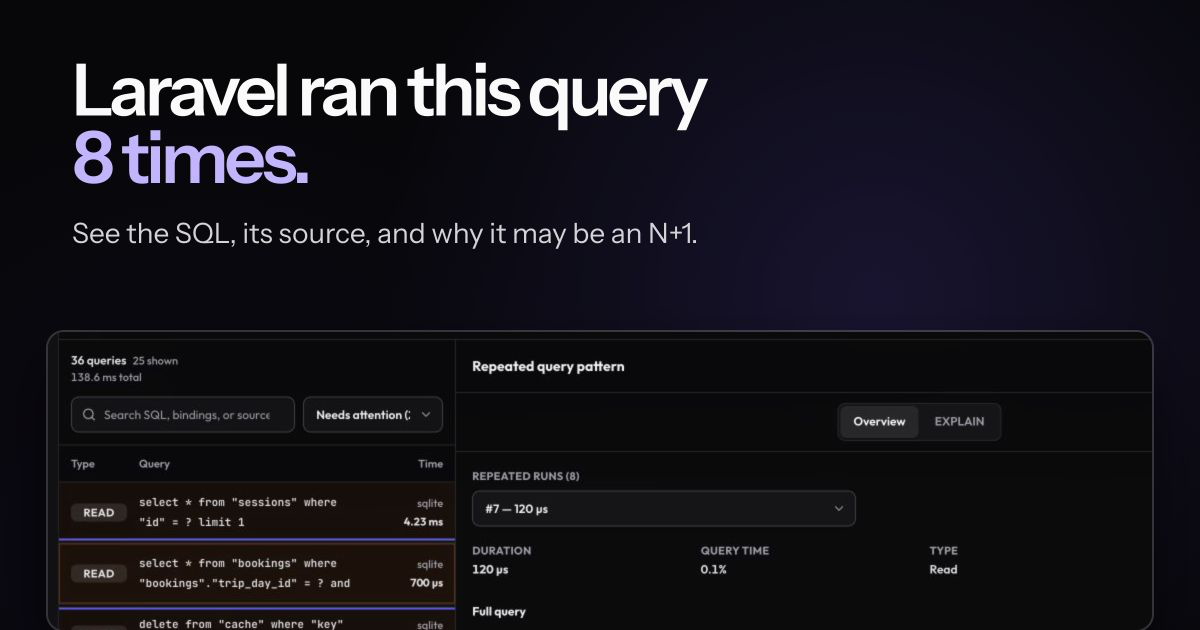
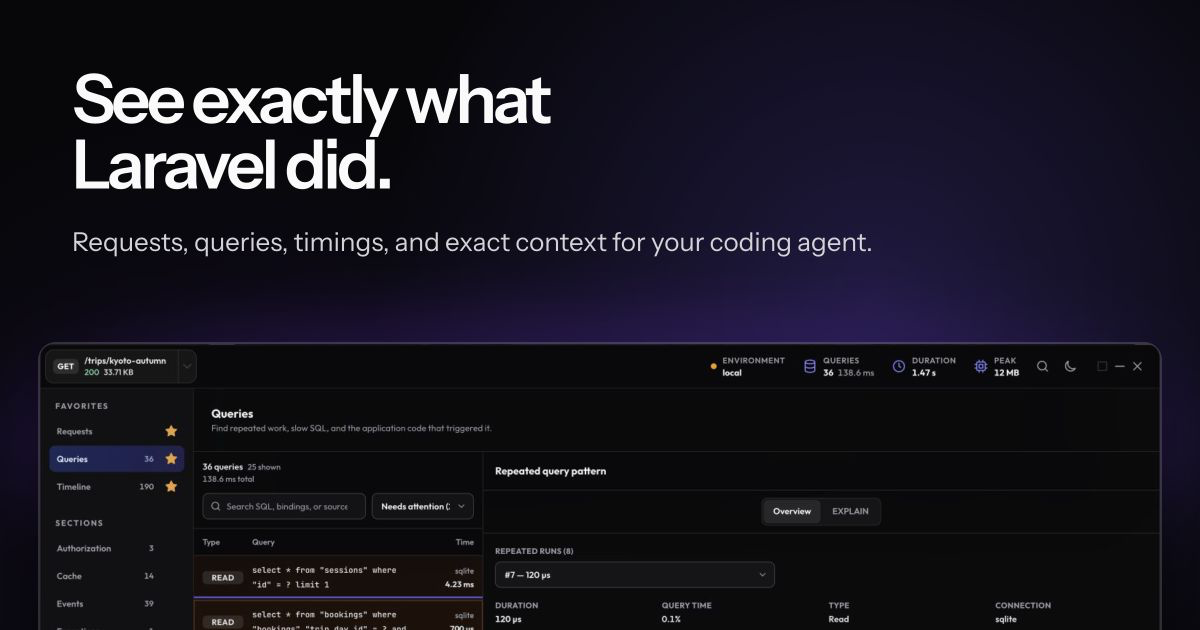
Restore the broader social preview
- Return to the approved headline, spacing, and full product screenshot.
- Replace exceptions with timings in the supporting copy.
- Strengthen only the existing violet background and screenshot halo.
- Remove the extra image-format assertion from the visual-only pass.

diff --git a/resources/views/social/og-image.blade.php b/resources/views/social/og-image.blade.php
@@ -23,23 +23,23 @@
     </head>
     <body class="bg-[#07070a] font-sans antialiased">
         <main
-            class="relative isolate h-[630px] w-[1200px] overflow-hidden bg-[#07070a] text-white [background:radial-gradient(circle_at_73%_47%,rgb(119_87_255_/_16%),transparent_31.25rem),radial-gradient(circle_at_18%_87%,rgb(76_29_149_/_8%),transparent_28rem),#07070a]"
+            class="relative isolate h-[630px] w-[1200px] overflow-hidden bg-[#07070a] text-white [background:radial-gradient(circle_at_73%_47%,rgb(119_87_255_/_22%),transparent_31.25rem),radial-gradient(circle_at_18%_87%,rgb(76_29_149_/_12%),transparent_28rem),#07070a]"
             data-social-preview-canvas
             data-social-preview-width="1200"
             data-social-preview-height="630"
         >
-            <h1 class="absolute top-14 left-[72px] w-[920px] text-[72px] leading-[0.94] font-semibold tracking-[-0.055em] text-zinc-50">
-                Laravel ran this query<br>
-                <span class="text-violet-300">8 times.</span>
+            <h1 class="absolute top-[66px] left-[72px] w-[930px] text-[68px] leading-[0.96] font-semibold tracking-[-0.055em] text-zinc-50">
+                See exactly what<br>
+                Laravel did.
             </h1>
 
-            <p class="absolute top-[214px] left-[72px] w-[940px] text-[28px] leading-[38px] text-zinc-300">
-                See the SQL, its source, and why it may be an N+1.
+            <p class="absolute top-[224px] left-[72px] w-[1050px] text-[26px] leading-9 text-zinc-300">
+                Requests, queries, timings, and exact context for your coding agent.
             </p>
 
-            <div class="absolute top-[332px] left-12 h-[298px] w-[1104px] overflow-hidden rounded-2xl bg-[#0d0d10] shadow-[0_1.75rem_3.25rem_rgb(0_0_0_/_60%)] ring-2 ring-white/[0.18] before:absolute before:-top-6 before:-right-6 before:-left-6 before:h-[15rem] before:z-[-1] before:rounded-[45%] before:bg-[rgb(124_58_237_/_22%)] before:blur-[40px] before:content-['']">
+            <div class="absolute top-[344px] left-10 w-[1120px] rounded-2xl bg-[#0d0d10] shadow-[0_1.75rem_3.25rem_rgb(0_0_0_/_60%)] ring-2 ring-white/[0.16] before:absolute before:-top-6 before:-right-6 before:-left-6 before:h-[15rem] before:z-[-1] before:rounded-[45%] before:bg-[rgb(124_58_237_/_28%)] before:blur-[42px] before:content-['']">
                 <img
-                    class="absolute top-[-140px] left-[-200px] block h-[640px] w-[1536px] max-w-none"
+                    class="block h-auto w-full rounded-[14px]"
                     src="{{ Vite::asset('resources/images/screenshots/queries-inspector-desktop-dark.png') }}"
                     width="1536"
                     height="640"

diff --git a/tests/Feature/PublicPagesTest.php b/tests/Feature/PublicPagesTest.php
@@ -156,8 +156,7 @@ it('publishes a dedicated social preview image', function () {
         ->and($twitterImage->item(0)?->getAttribute('content'))->toBe($ogImage->item(0)?->getAttribute('content'))
         ->and($twitterImageAlt->item(0)?->getAttribute('content'))->toBe($ogImageAlt->item(0)?->getAttribute('content'))
         ->and($imageSize)->not->toBeFalse()
-        ->and([$imageSize[0], $imageSize[1]])->toBe([1200, 630])
-        ->and($imageSize['mime'])->toBe('image/png');
+        ->and([$imageSize[0], $imageSize[1]])->toBe([1200, 630]);
 });
 
 it('renders the social preview from a fixed local capture page', function () {
